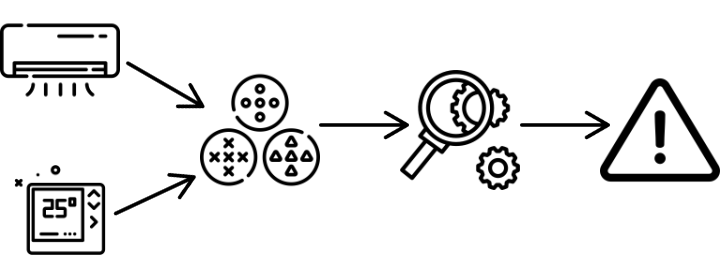
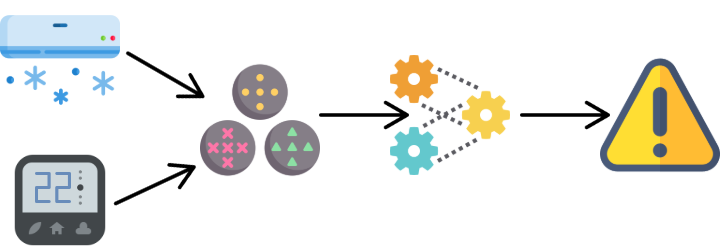
add implemenation, flink and fix graph

Changed region(s): [[0.0, 0.0558, 0.4577, 1.0], [0.4272, 0.2231, 1.0, 0.6972]]

diff --git a/slide/presentazioneTesi.tex b/slide/presentazioneTesi.tex
@@ -1,18 +1,20 @@
 \documentclass{beamer}
+\usepackage{csquotes} 
 
 \usetheme{Padova}
 
 \title{Componente di controllo per l'elaborazione in tempo reale di flussi di dati aggregati}
-%\subtitle{Curabitur sit amet mi magna}
-\author{Niccolò Mantovani}
+\subtitle{Dipartimento di Matematica "Tullio Levi Civita" Università di Padova, Corso di Laurea in Informatica Esame di Laurea}
 \date{30 Settembre 2021}
+\author{Niccolò Mantovani}
+
 
 
 \begin{document}
 
 	\maketitle
 
-	\begin{frame}{Outline}
+	\begin{frame}{Indice}
 		\tableofcontents
 	\end{frame}
 
@@ -53,6 +55,7 @@
 			\end{itemize}
 		\end{block}
 		
+		\vspace{-0.3cm}
 		\begin{figure}[!h] 
     		\centering 
     		\includegraphics[width=0.55\columnwidth]{../immagini/slide/elaboration_example.png}
@@ -70,8 +73,8 @@
 		
 		\begin{alertblock}{Adattabilità raggruppamento}
 			\begin{itemize}
-				\item Temporale su eventi di \textbf{risorse differenti} \vspace{.5em}
-				\item Per caratteristiche su eventi di \textbf{risorse differenti} \vspace{.5em}
+				\item \textbf{Temporale:} su eventi di \textbf{risorse differenti} \vspace{.5em}
+				\item \textbf{Per caratteristiche:} su eventi di \textbf{risorse differenti} \vspace{.5em}
 			\end{itemize}
 		\end{alertblock}
 		
@@ -84,31 +87,18 @@
 
 	\begin{frame}{Soluzione proposta}
 		\begin{exampleblock}{Adattabilità struttura dati}
-			Proin tincidunt, neque at tincidunt mollis
+			Aggiunta del campo informativo \textit{``subject"} 
 		\end{exampleblock}
 		
 		\begin{exampleblock}{Adattabilità raggruppamento}
-			Proin tincidunt, neque at tincidunt mollis
+			\begin{itemize}
+				\item \textbf{Temporale:} aggregazione o allineamento tramite \textbf{configurazione}\vspace{.5em}
+				\item \textbf{Per caratteristiche:} filtraggio definito dalla \textbf{configurazione}  \vspace{.5em}
+			\end{itemize}
 		\end{exampleblock}
 		
 		\begin{exampleblock}{Adattabilità rilevazione anomalie}
-			Proin tincidunt, neque at tincidunt mollis
-		\end{exampleblock}
-	\end{frame}
-	
-	\section{Implementazione}
-
-	\begin{frame}{Implementazione}
-		\begin{block}{Normal block}
-			Fusce luctus venenatis felis quis semper
-		\end{block}
-
-		\begin{alertblock}{Alert block}
-			$$ E = (x_1 \vee \neg x_2 \vee \neg x_3) \wedge (x_1 \vee x_2 \vee x_4) $$
-		\end{alertblock}
-
-		\begin{exampleblock}{Example block}
-			Proin tincidunt, neque at tincidunt mollis
+			Creazione di un evento riassuntivo
 		\end{exampleblock}
 	\end{frame}
 	
@@ -117,7 +107,7 @@
 	\begin{frame}{Strumenti utilizzati}
 		\begin{block}{Framework}
 			\begin{itemize}
-				\item \textbf{Flink:} \textit{data processing} per l'elaborazione di dati in modo distribuito \vspace{.5em}
+				\item \textbf{Apache Flink:} \textit{data processing} per l'elaborazione di dati in modo distribuito \vspace{.5em}
 				\item \textbf{ScalaTest:} stesura dei test relativi all'analisi effettuata da \textit{Flink} \vspace{.5em}
 			\end{itemize}
 		\end{block}
@@ -130,10 +120,39 @@
 		\end{block}
 	\end{frame}
 	
-	\subsection{Flink}
-	\begin{frame}{Flink}
-	
+	\subsection{Apache Flink}
+	\begin{frame}{Apache Flink}
+		\begin{figure}[!h] 
+    		\centering 
+    		\includegraphics[width=0.2\columnwidth]{../immagini/slide/Apache_Flink_logo.png}
+		\end{figure}
+		
+		\begin{itemize}
+			\item \textbf{DataStream}
+				\begin{figure}[!h] 
+    		\centering 
+    		\includegraphics[width=0.8\columnwidth]{../immagini/slide/bounded-unbounded.png} 
+		\end{figure}  \vspace{.5em}
+			
+			\item \textbf{Operatori}  \vspace{.5em}
+			\item \textbf{Alta disponibilità e recovery}
+			\begin{itemize}
+				\item \textit{Checkpoint}
+				\item \textit{Savepoint}
+				\end{itemize} \vspace{.5em}
+		\end{itemize}
 	\end{frame}
+	
+	\section{Implementazione}
+
+	\begin{frame}{Implementazione}
+		\begin{figure}[!h]
+    		 \centering
+    		\includegraphics[width=11.5cm]{../immagini/slide/implementation.png}
+		\end{figure}
+	\end{frame}
+	
+	
 	
 	\section{Prodotto finale}
 
